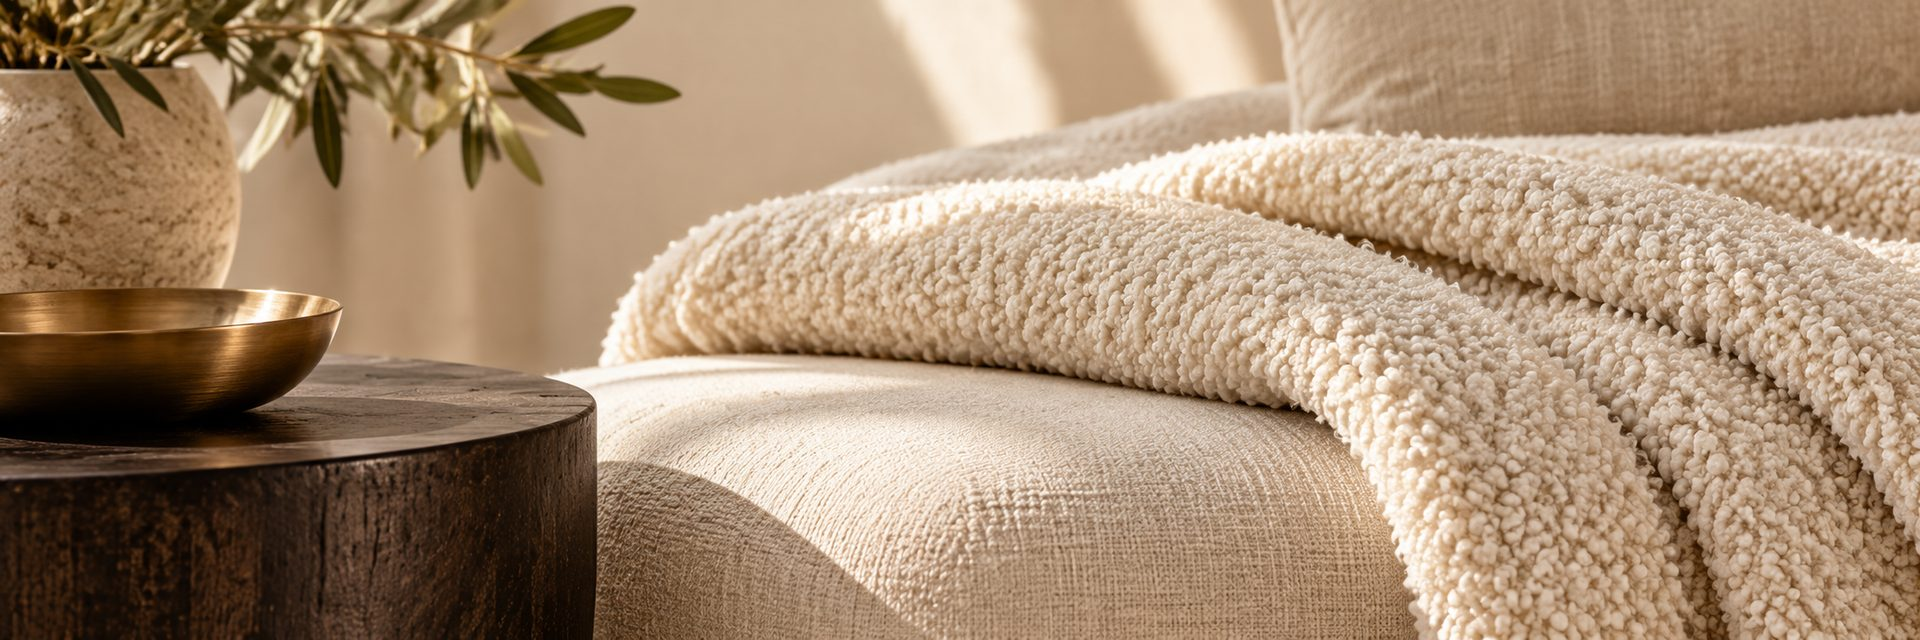
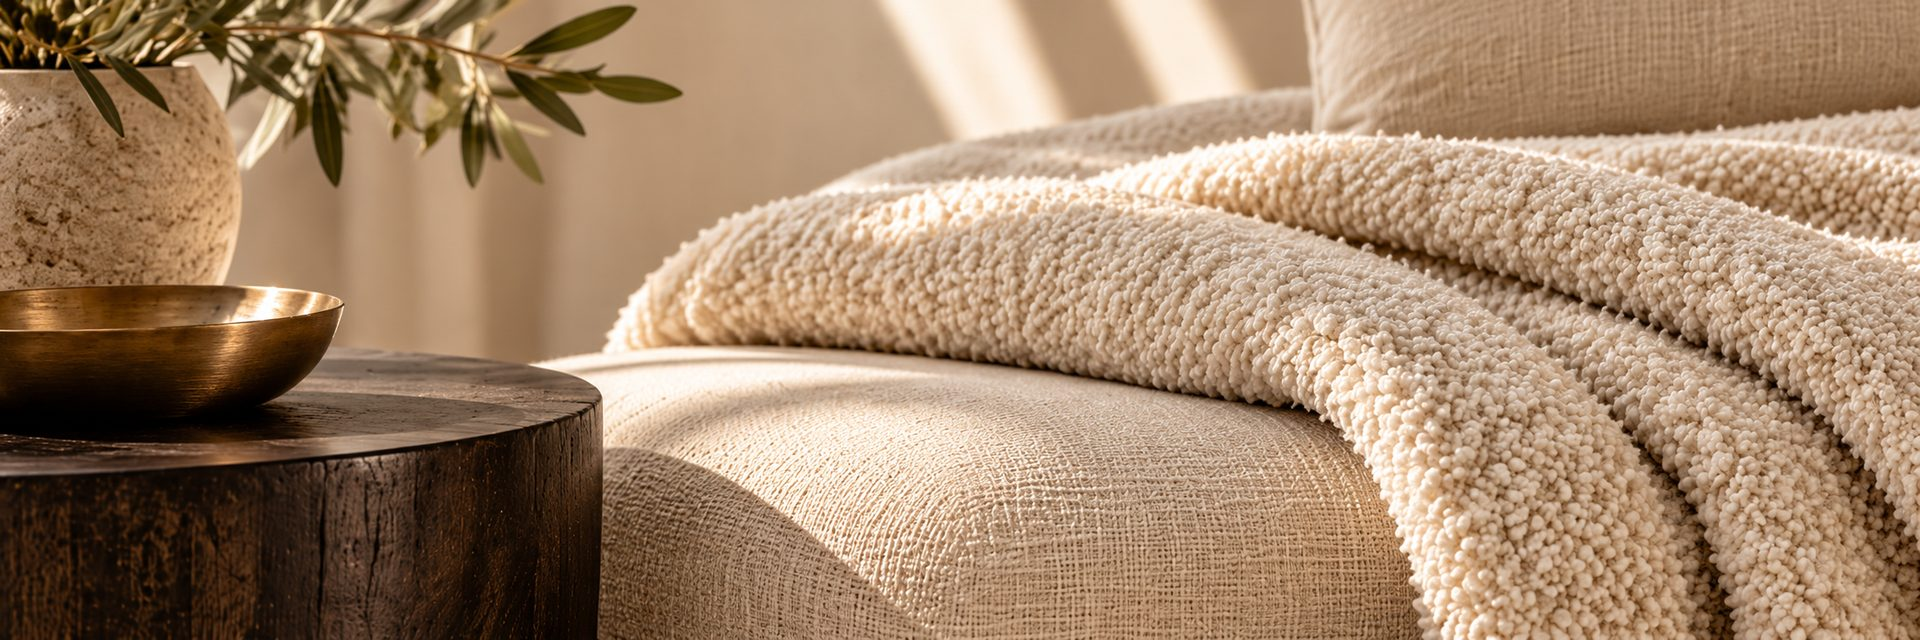
Add dedicated Estate Sales + Estate Management images; refresh bands & contact
- Estate Sales flagship (feature cards + page banner) now uses the curated
  antiques/silver/art display image
- Estate Management page + service card use the real home-mid-sort image
- Refresh boucle/marble bands and Contact banner with properly-ratioed versions

Claude-Session: https://claude.ai/code/session_01TmpKbQ9dQJgBS3atNsjquV

diff --git a/index.html b/index.html
@@ -318,7 +318,7 @@
   .hero::after{z-index:3;}
   #maintenance .page-hero{background:linear-gradient(90deg,rgba(13,14,17,.94) 0%,rgba(13,14,17,.68) 55%,rgba(13,14,17,.52) 100%),url("img/maintenance.jpg") center/cover no-repeat;}
   #organization .page-hero{background:linear-gradient(90deg,rgba(13,14,17,.94) 0%,rgba(13,14,17,.68) 55%,rgba(13,14,17,.52) 100%),url("img/organization.jpg") center/cover no-repeat;}
-  #estates .page-hero{background:linear-gradient(90deg,rgba(13,14,17,.94) 0%,rgba(13,14,17,.68) 55%,rgba(13,14,17,.52) 100%),url("img/estates.jpg") center/cover no-repeat;}
+  #estates .page-hero{background:linear-gradient(90deg,rgba(13,14,17,.94) 0%,rgba(13,14,17,.68) 55%,rgba(13,14,17,.52) 100%),url("img/estate-sales.jpg") center/cover no-repeat;}
   #maintenance .page-hero::before,#organization .page-hero::before,#estates .page-hero::before{display:none;}
   @media(prefers-reduced-motion:reduce){.hero-bg{animation:none;}}
 
@@ -344,7 +344,7 @@
   @media(max-width:880px){.band{background-attachment:scroll;}}
 
   /* Estate Management banner (detail page) */
-  #estate-management .page-hero{background:linear-gradient(90deg,rgba(13,14,17,.94) 0%,rgba(13,14,17,.68) 55%,rgba(13,14,17,.52) 100%),url("img/band-marble.jpg") center/cover no-repeat;}
+  #estate-management .page-hero{background:linear-gradient(90deg,rgba(13,14,17,.94) 0%,rgba(13,14,17,.68) 55%,rgba(13,14,17,.52) 100%),url("img/estate-management.jpg") center/cover no-repeat;}
   #estate-management .page-hero::before{display:none;}
 
   /* Flagship feature card (Estate Sales) */
@@ -622,7 +622,7 @@
         <p>Our signature offering — the full, discreet management of an estate sale: appraised, staged, sold for its true worth, and accounted for to the cent.</p>
         <span class="more">Explore Estate Sales<span class="arw">→</span></span>
       </div>
-      <div class="feature-img" style="background-image:url('img/estates.jpg')"></div>
+      <div class="feature-img" style="background-image:url('img/estate-sales.jpg')"></div>
     </a>
     <div class="preview-grid">
       <a class="preview" href="#maintenance"><span class="pnum">01</span><h3>Home Maintenance</h3><p>Cleaning, repairs, gardens, painting, small-space design &amp; moves.</p><span class="more">View<span class="arw">→</span></span></a>
@@ -704,7 +704,7 @@
         <p>Our signature offering — the full, discreet management of an estate sale: appraised, staged, sold for its true worth, and accounted for to the cent.</p>
         <span class="more">Explore Estate Sales<span class="arw">→</span></span>
       </div>
-      <div class="feature-img" style="background-image:url('img/estates.jpg')"></div>
+      <div class="feature-img" style="background-image:url('img/estate-sales.jpg')"></div>
     </a>
     <div class="service-grid">
 
@@ -737,7 +737,7 @@
       </a>
 
       <a class="service" href="#estate-management">
-        <div class="service-img" style="background-image:url('img/band-marble.jpg')"></div>
+        <div class="service-img" style="background-image:url('img/estate-management.jpg')"></div>
         <div class="num">03 — Estate</div>
         <h3>Estate Management</h3>
         <p>The calm handling of everything around an estate — sorting, downsizing, giving, and clearing, one considered step at a time.</p>
